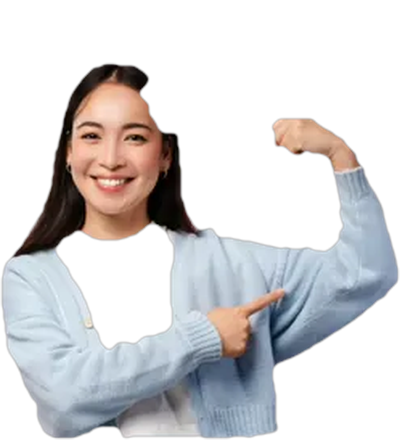
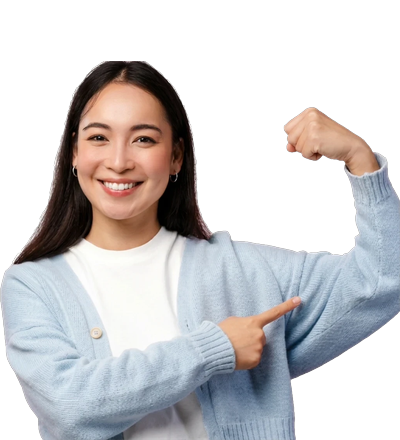
Mascot peeking over the hero card, heartbeat heading rules, clean package photos
- Hero card: PDH's mascot (cut out from the supplied image) peeks over the
  top-right edge; the Open 24/7 line and the doctor-count footnote are gone
  as redundant; the specialty pill row under the hero is gone for the same
  reason (the card has a department picker)
- Heading rules: a heartbeat line as wide as the heading's text with an ECG
  sweep (src/scripts/heartbeat.ts), on the homepage and every inner page
  hero; static under reduced motion
- Packages: the clean model photos Sue supplied replace the GrabCut
  cut-outs for nine slides; equipment photos (ultrasound, hemodialysis) are
  shown whole, never cropped

diff --git a/src/scripts/heartbeat.ts b/src/scripts/heartbeat.ts
@@ -1,0 +1,43 @@
+// Heading rule drawn as a heartbeat line: a flat trace with one ECG spike, as wide as the
+// heading's text, with a sweep that travels along it. Under reduced motion the line is static.
+let seq = 0;
+
+function textWidth(heading: Element | null): number {
+  if (!heading) return 0;
+  const range = document.createRange();
+  range.selectNodeContents(heading);
+  const box = range.getBoundingClientRect();
+  return box.width;
+}
+
+export function heartbeatRule(rule: HTMLElement, heading: Element | null): void {
+  const id = `hb${++seq}`;
+  const draw = () => {
+    const fallback = rule.parentElement ? rule.parentElement.clientWidth : 240;
+    const w = Math.max(96, Math.round(textWidth(heading) || fallback));
+    const h = 22, mid = 15;
+    const sx = Math.round(w * 0.6);
+    const d = `M0 ${mid} H${sx} l5 -4 l5 8 l5 -19 l6 26 l5 -11 l4 0 H${w}`;
+    rule.style.width = `${w}px`;
+    rule.innerHTML = `<svg viewBox="0 0 ${w} ${h}" width="${w}" height="${h}" aria-hidden="true" focusable="false">` +
+      `<defs><linearGradient id="${id}" x1="0" y1="0" x2="1" y2="0"><stop offset="0" stop-color="#bfe8e6"/><stop offset="0.45" stop-color="#7fd3cf"/><stop offset="1" stop-color="#ff7402"/></linearGradient></defs>` +
+      `<path class="hb-base" d="${d}" stroke="url(#${id})"/><path class="hb-sweep" d="${d}" stroke="url(#${id})"/></svg>`;
+    const sweep = rule.querySelector('.hb-sweep') as SVGPathElement | null;
+    if (!sweep) return;
+    const len = sweep.getTotalLength();
+    const dash = Math.min(len * 0.38, 170);
+    sweep.style.strokeDasharray = `${dash} ${len + dash}`;
+    sweep.style.setProperty('--hb-dash', `${dash}`);
+    sweep.style.setProperty('--hb-end', `${-(len + dash)}`);
+  };
+  draw();
+  let t = 0;
+  window.addEventListener('resize', () => { window.clearTimeout(t); t = window.setTimeout(draw, 150); });
+}
+
+export function heartbeatAll(selector: string, root: ParentNode = document): void {
+  root.querySelectorAll<HTMLElement>(selector).forEach((rule) => {
+    const prev = rule.previousElementSibling;
+    heartbeatRule(rule, prev && /^H[1-6]$/.test(prev.tagName) ? prev : null);
+  });
+}

diff --git a/src/styles/global.css b/src/styles/global.css
@@ -352,3 +352,11 @@ details.acc .body { padding: 0 16px 16px; color: var(--ink-soft); }
 .doctor-card .avatar { background: var(--pdh-teal-tint); color: var(--pdh-teal-text); }
 .steps li::before { background: var(--pdh-orange); color: var(--pdh-navy); }
 .form-status { background: var(--accent-soft); color: var(--accent-text); }
+
+/* Heartbeat heading rules (built by src/scripts/heartbeat.ts) */
+.cp-rule svg, .page-rule svg { display: block; overflow: visible; }
+.hb-base, .hb-sweep { fill: none; stroke-width: 3; stroke-linecap: round; stroke-linejoin: round; }
+.hb-base { opacity: 0.32; }
+.hb-sweep { stroke-dashoffset: var(--hb-dash, 0); animation: hb-sweep 2.8s linear infinite; }
+@keyframes hb-sweep { from { stroke-dashoffset: var(--hb-dash, 0); } to { stroke-dashoffset: var(--hb-end, -1000); } }
+@media (prefers-reduced-motion: reduce) { .hb-sweep { animation: none; display: none; } .hb-base { opacity: 1; } }
